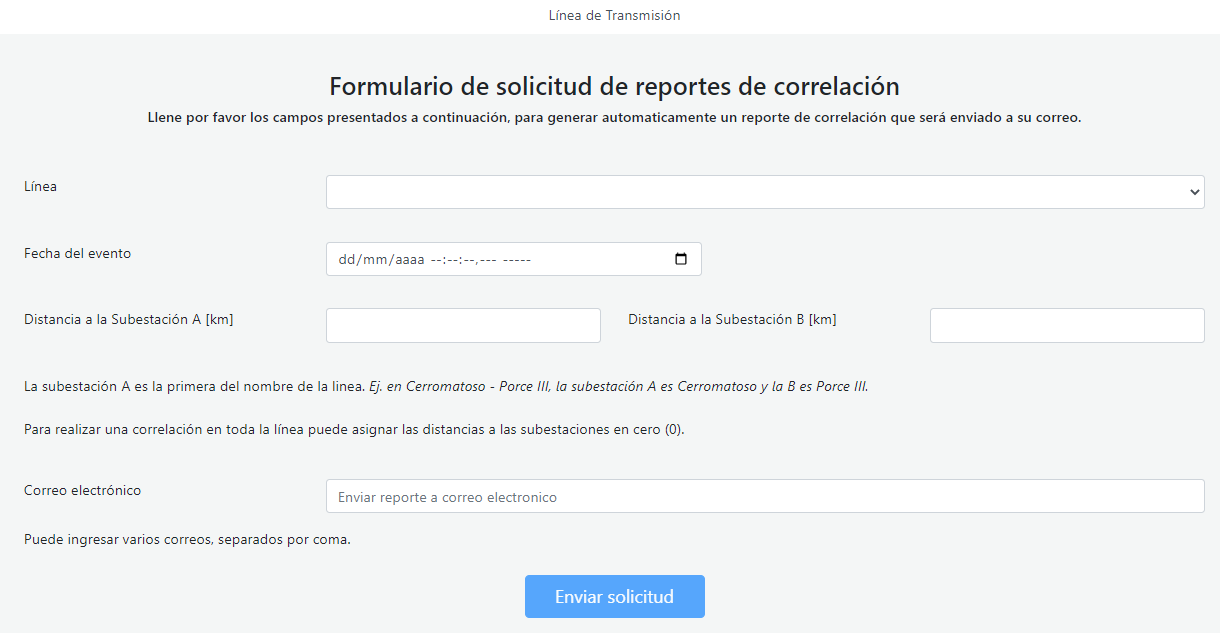
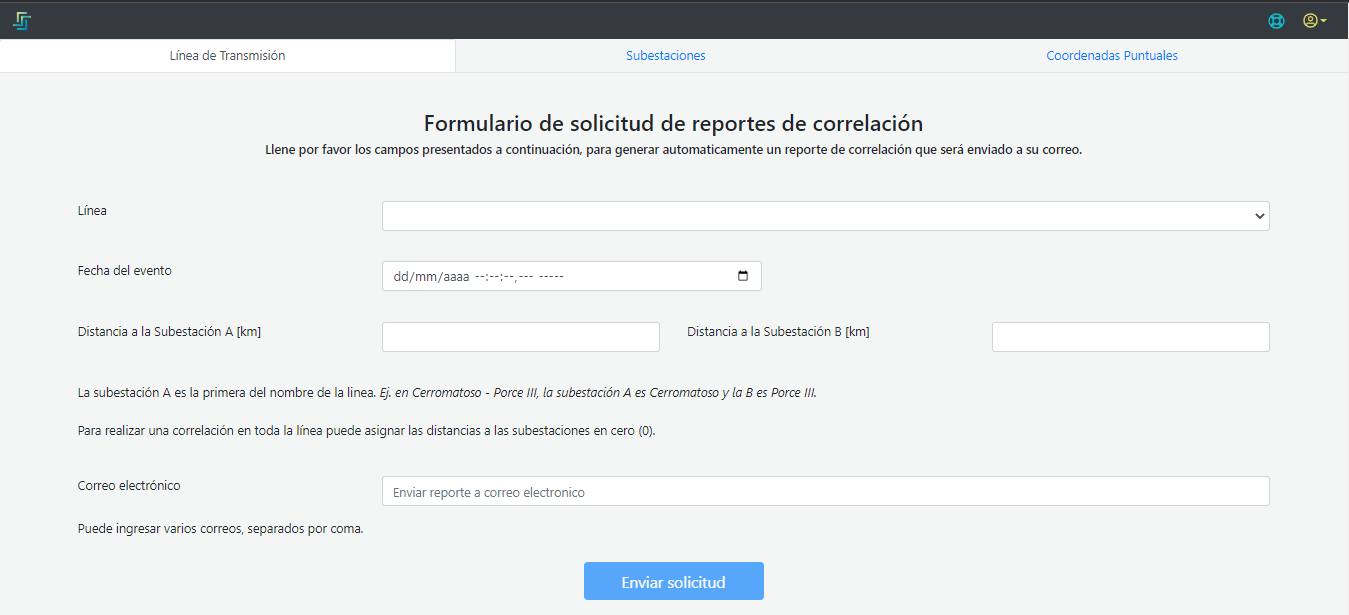
Se agrega la explicación para el uso de los formularios en la página web

diff --git a/Plataforma_PowerFrames/docs/AMALIA/Reportes/Reportes.md b/Plataforma_PowerFrames/docs/AMALIA/Reportes/Reportes.md
@@ -1,9 +1,10 @@
 ### 2.2.1 Módulo de reportes 
 
-En esta opción el usuario puede consultar la correlación que existe entre la salida de una línea de transmisión y una descarga atmosferíca, con el fin de determinar la posibilidad de que la causa de la falla (salida de línea) sea consecuencia de un rayo. 
+El módulo de reportes cuenta con la posibilidad de consultar la correlación que existe entre las descargas atmosféricas y las líneas de transmisión/distribución, subestaciones y además sobre coordenadas puntuales. Cada una de las opciones se encuentra en la parte superior de la pantalla, dependiendo de la consulta que se quiera realizar se debe elegir la opción adecuada (Línea de transmisión, Subestación o Coodenada puntual).
 
-![Figura 4](../../../pictures/Imagen4.png "Solicitud de Reportes")
-**Figura 4.** *Solicitud de Reporte*
+#### 2.2.1.1 Línea de transmisión
+![Figura 4](../../../pictures/Imagen4.png "Solicitud de Reporte Líneas de transmisión")
+**Figura 4.** *Solicitud de Reporte Líneas de transmisión*
 
 Para hacer en análisis de esta correlación se requiere contar con los siguientes datos: 
 
@@ -17,6 +18,37 @@ Estas líneas guardan la misma convención de nombre que usa el cliente, 4 letra
 - **Distancias a las subestaciones**: Tanto la distancia a la subestación A como a la subestación B son las medidas en kilómetros estimadas por los elementos de protección. 
 
     >*IMPORTANTE*: Se debe tener en cuenta que la suma de las dos distancias a las subestaciones no debe ser mayor a la longitud de la línea ni menor que ella. 
+
+- **Correo electrónico**: esta campo está dispuesto para escribir todos los correos electrónicos a los que se quiere que se envíe el informe solicitado, si son varios correos, estos deben ir separados por coma (**,**) entre sí.
+
+#### 2.2.1.2 Subestaciones
+![Figura 77](../../../pictures/Imagen77.png "Solicitud de Reportes para subestaciones")
+**Figura 4.** *Solicitud de Reportes para subestaciones*
+
+Para hacer en análisis de esta correlación se requiere contar con los siguientes datos: 
+
+- **Subestación**: Se debe seleccionar la subestación sobre la que se esté requiriendo la información de correlación. La plataforma ofrece una lista desplegable con todas las subestaciones que se encuentran monitoreadas de tal forma que el usuario pueda buscar la de su interés.  
+Estas subestaciones guardan la misma convención de nombre que usa el cliente, 4 letras para el ID de identificación.  
+
+- **Fecha del evento**: Corresponde a la fecha completa en la que se detectó un evento de falla o salida de línea en el activo que se está correlacionando. Este dato tiene resolución de microsegundos en un formato de Dia/Mes/Año Hora:Minuto:Segundo.Microsegundo. 
+
+    >*IMPORTANTE*: Aunque el dato admite valores hasta los microsegundos, solo es obligatorio llenar la información hasta los segundos, es importante tener en cuenta esto, ya que el sistema no hace el cálculo de correlaciones para resoluciones minutales. 
+
+- **Correo electrónico**: esta campo está dispuesto para escribir todos los correos electrónicos a los que se quiere que se envíe el informe solicitado, si son varios correos, estos deben ir separados por coma (**,**) entre sí.
+
+#### 2.2.1.3 Coordenada Puntual
+![Figura 78](../../../pictures/Imagen78.png "Solicitud de Reportes para coordenadas puntuales")
+**Figura 4.** *Solicitud de Reportes para coordenadas puntuales*
+
+Para hacer en análisis de esta correlación se requiere contar con los siguientes datos: 
+
+- **Longitud**: Se debe ingresar el valor decimal de la longitud correspondiente a la coordenada sobre la cual se quiere realizar la consulta. Si este valor es de carácter decimal es necesario usar el punto (**.**) en lugar de la coma.
+
+- **Latitud**: Se debe ingresar el valor decimal de la latitud correspondiente a la coordenada sobre la cual se quiere realizar la consulta. Si este valor es de carácter decimal es necesario usar el punto (**.**) en lugar de la coma.
+
+- **Fecha del evento**: Corresponde a la fecha completa en la que se detectó un evento de falla o salida de línea en el activo que se está correlacionando. Este dato tiene resolución de microsegundos en un formato de Dia/Mes/Año Hora:Minuto:Segundo.Microsegundo. 
+
+    >*IMPORTANTE*: Aunque el dato admite valores hasta los microsegundos, solo es obligatorio llenar la información hasta los segundos, es importante tener en cuenta esto, ya que el sistema no hace el cálculo de correlaciones para resoluciones minutales. 
 
 - **Correo electrónico**: esta campo está dispuesto para escribir todos los correos electrónicos a los que se quiere que se envíe el informe solicitado, si son varios correos, estos deben ir separados por coma (**,**) entre sí.
 
@@ -36,7 +68,7 @@ B --> E{ITCO-20220523105102}
 C --> E
 D --> E
 ```
-#### 2.2.1.1. Errores
+#### 2.2.1.4. Errores
 
 ##### **Sesion expirada**: 
 La plataforma tiene una vigencia de sesión de 45 minutos, razón por la cual despúes de este tiempo, el usuario deberá recargar la página y volver a identificarse, de lo contrario al intentar sacar un reporte, la plataforma no estará habilitada y mostrará una ventana emergente solicitando una nueva autenticación, tal como se ve en la [Figura6](../../../pictures/Imagen5.png).

diff --git a/Plataforma_PowerFrames/README.md b/Plataforma_PowerFrames/README.md
@@ -22,9 +22,9 @@ Ya dentro del aplicativo, AMALIA se encarga de dar la Bienvenida al usuario aute
 
 ### 2.1 [Módulo de reportes](../Plataforma_PowerFrames/docs/AMALIA/Reportes/Reportes.md)
 
-En esta opción el usuario puede consultar la correlación que existe entre la salida de una línea de transmisión/distribución y una descarga atmosferíca, con el fin de determinar la posibilidad de que la causa de la falla (salida de línea) sea consecuencia de un rayo. 
+El módulo de reportes cuenta con la posibilidad de consultar la correlación que existe entre las descargas atmosféricas y las líneas de transmisión/distribución, subestaciones y además sobre coordenadas puntuales.
 
-La plataforma está configurado por defecto para que todos los campos estén en blanco y sea el usuario el que ingrese la información necesaria para la consulta como se muestra en el [Módulo de Reportes](../Plataforma_PowerFrames/pictures/Imagen4.png).
+La plataforma está configurada por defecto para que todos los campos estén en blanco y sea el usuario el que ingrese la información necesaria para la consulta como se muestra en el [Módulo de Reportes](../Plataforma_PowerFrames/pictures/Imagen4.png).
 
 > *IMPORTANTE:* Para evitar errores con la estampa de tiempo de los eventos, se recomienda utilizar la hora del computador en horario militar (Formato 24 horas).
 
